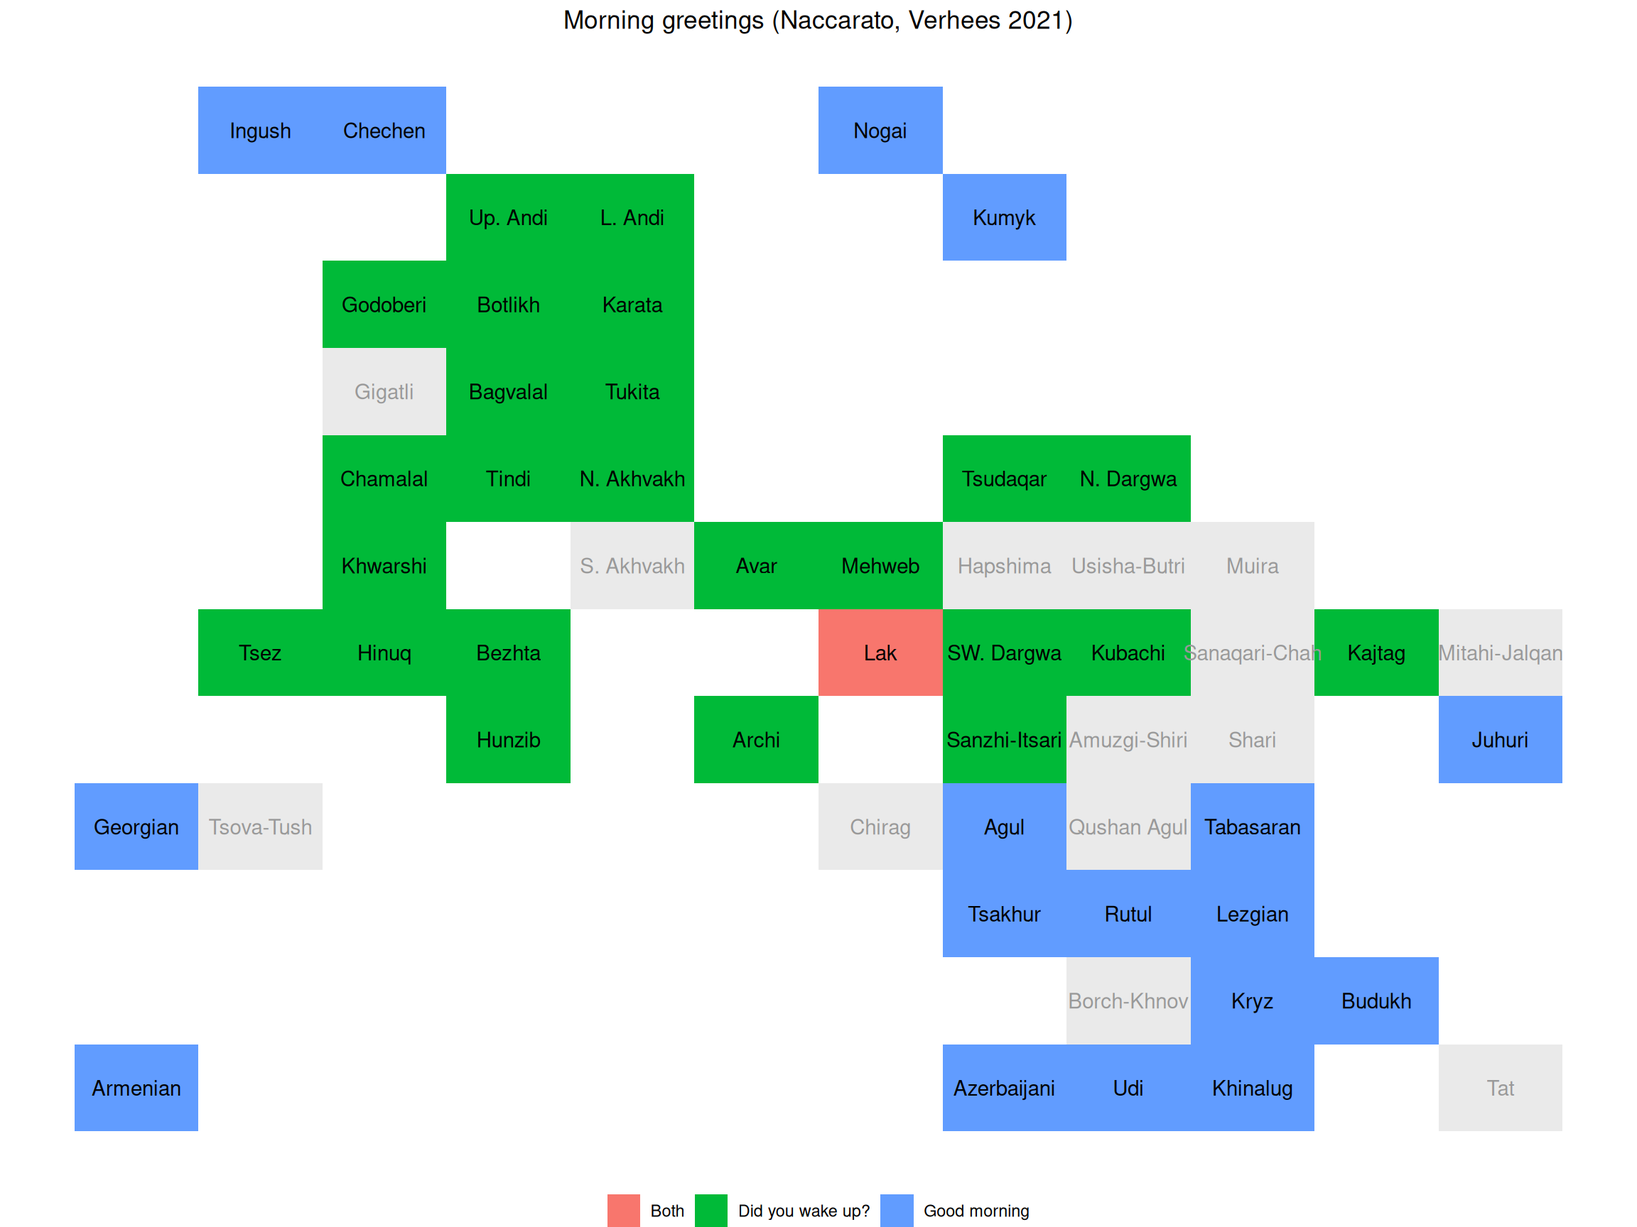
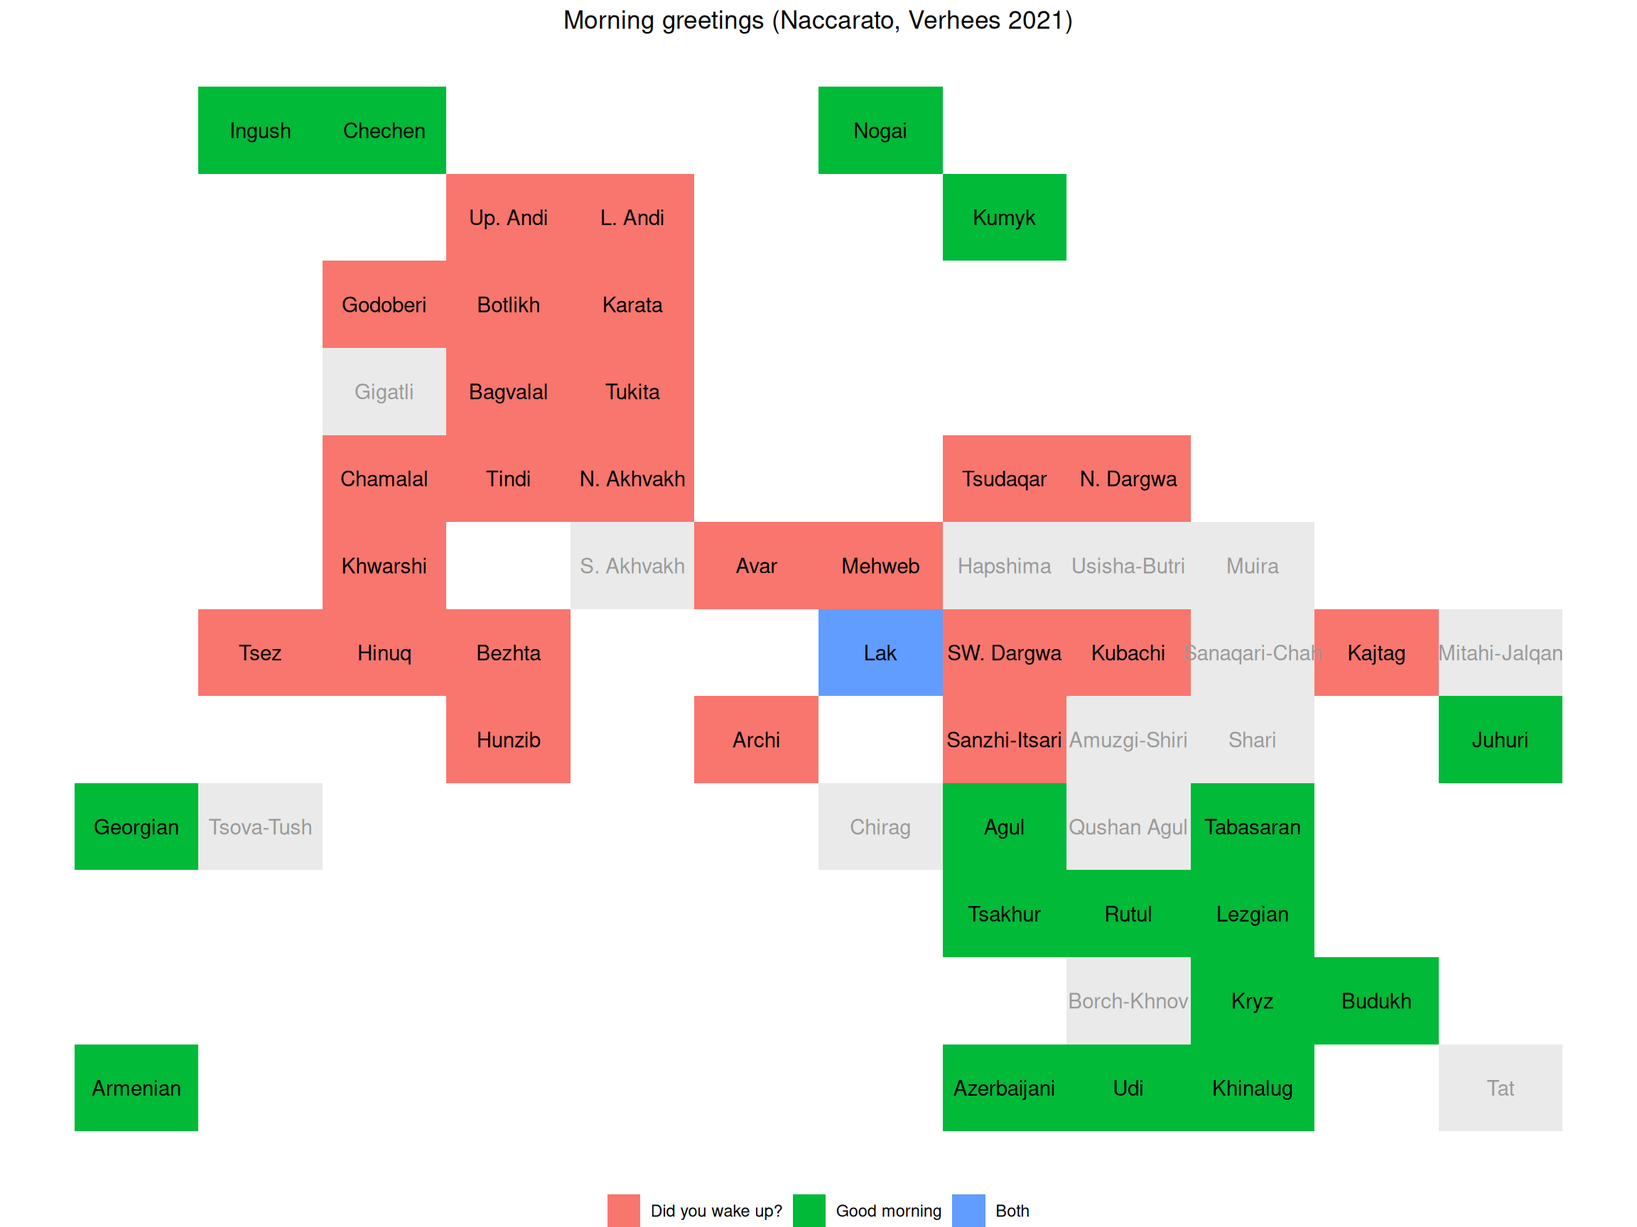
add ordering to ec_languages; add section on value ordering

diff --git a/docs/index.html b/docs/index.html
@@ -87,6 +87,7 @@ pre > code.sourceCode > span > a:first-child::before { text-decoration: underlin
   <li><a href="#installation" id="toc-installation" class="nav-link" data-scroll-target="#installation"><span class="header-section-number">2</span> Installation</a></li>
   <li><a href="#how-to-use-rcauctile" id="toc-how-to-use-rcauctile" class="nav-link" data-scroll-target="#how-to-use-rcauctile"><span class="header-section-number">3</span> How to use <code>RCaucTile</code></a></li>
   <li><a href="#changing-the-default-colors" id="toc-changing-the-default-colors" class="nav-link" data-scroll-target="#changing-the-default-colors"><span class="header-section-number">4</span> Changing the Default Colors</a></li>
+  <li><a href="#changing-values-order" id="toc-changing-values-order" class="nav-link" data-scroll-target="#changing-values-order"><span class="header-section-number">5</span> Changing values order</a></li>
   </ul>
 </nav>
 </div>
@@ -169,7 +170,7 @@ A BibTeX entry for LaTeX users is
 <div class="cell-output-display">
 <div data-pagedtable="false">
   <script data-pagedtable-source="" type="application/json">
-{"columns":[{"label":["language"],"name":[1],"type":["chr"],"align":["left"]},{"label":["branch"],"name":[2],"type":["chr"],"align":["left"]},{"label":["family"],"name":[3],"type":["chr"],"align":["left"]},{"label":["glottocode"],"name":[4],"type":["chr"],"align":["left"]},{"label":["language_color"],"name":[5],"type":["chr"],"align":["left"]},{"label":["branch_color"],"name":[6],"type":["chr"],"align":["left"]},{"label":["x"],"name":[7],"type":["int"],"align":["right"]},{"label":["y"],"name":[8],"type":["int"],"align":["right"]},{"label":["abbreviation"],"name":[9],"type":["chr"],"align":["left"]},{"label":["morning_greetings"],"name":[10],"type":["chr"],"align":["left"]},{"label":["consonant_inventory_size"],"name":[11],"type":["int"],"align":["right"]}],"data":[{"1":"Agul","2":"Lezgic","3":"East Caucasian","4":"aghu1253","5":"#00cc66","6":"#ffd000","7":"8","8":"4","9":"NA","10":"Good morning","11":"44"},{"1":"Amuzgi-Shiri","2":"Dargwa","3":"East Caucasian","4":"sout3261","5":"#f9ec49","6":"#ffb268","7":"9","8":"5","9":"NA","10":"NA","11":"NA"},{"1":"Archi","2":"Lezgic","3":"East Caucasian","4":"arch1244","5":"#88ff26","6":"#ffd000","7":"6","8":"5","9":"NA","10":"Did you wake up?","11":"69"},{"1":"Avar","2":"Avar-Andic","3":"East Caucasian","4":"avar1256","5":"#009999","6":"#009999","7":"6","8":"7","9":"NA","10":"Did you wake up?","11":"45"},{"1":"Azerbaijani","2":"Oghuz","3":"Turkic","4":"nort2697","5":"#cccccc","6":"#666666","7":"8","8":"1","9":"NA","10":"Good morning","11":"25"},{"1":"Bagvalal","2":"Avar-Andic","3":"East Caucasian","4":"bagv1239","5":"#000066","6":"#009cff","7":"4","8":"9","9":"NA","10":"Did you wake up?","11":"65"},{"1":"Bezhta","2":"Tsezic","3":"East Caucasian","4":"bezh1248","5":"#ff5050","6":"#ff0066","7":"4","8":"6","9":"NA","10":"Did you wake up?","11":"34"},{"1":"Borch-Khnov","2":"Lezgic","3":"East Caucasian","4":"rutu1240","5":"#009900","6":"#ffd000","7":"9","8":"2","9":"NA","10":"NA","11":"44"},{"1":"Botlikh","2":"Avar-Andic","3":"East Caucasian","4":"botl1242","5":"#327fcb","6":"#5fc1ff","7":"4","8":"10","9":"NA","10":"Did you wake up?","11":"69"},{"1":"Budukh","2":"Lezgic","3":"East Caucasian","4":"budu1248","5":"#3e7a04","6":"#ffd000","7":"11","8":"2","9":"NA","10":"Good morning","11":"37"},{"1":"Chamalal","2":"Avar-Andic","3":"East Caucasian","4":"cham1309","5":"#000099","6":"#0c60db","7":"3","8":"8","9":"NA","10":"Did you wake up?","11":"49"},{"1":"Chechen","2":"Nakh","3":"East Caucasian","4":"chec1245","5":"#996600","6":"#996600","7":"3","8":"12","9":"NA","10":"Good morning","11":"39"},{"1":"Chirag","2":"Dargwa","3":"East Caucasian","4":"chir1284","5":"#fecc9b","6":"#ffb268","7":"7","8":"4","9":"NA","10":"NA","11":"48"},{"1":"Eastern Armenian","2":"Armenic","3":"Indo-European","4":"nucl1235","5":"#9d76ff","6":"#cab3ff","7":"1","8":"1","9":"Armenian","10":"Good morning","11":"31"},{"1":"Georgian","2":"Georgic","3":"Kartvelian","4":"nucl1302","5":"#9effed","6":"#9effed","7":"1","8":"4","9":"NA","10":"Good morning","11":"28"},{"1":"Gigatli","2":"Avar-Andic","3":"East Caucasian","4":"cham1309","5":"#0000c3","6":"#ff8c00","7":"3","8":"9","9":"NA","10":"NA","11":"73"},{"1":"Godoberi","2":"Avar-Andic","3":"East Caucasian","4":"ghod1238","5":"#2563de","6":"#b99c00","7":"3","8":"10","9":"NA","10":"Did you wake up?","11":"61"},{"1":"Hapshima","2":"Dargwa","3":"East Caucasian","4":"darg1241","5":"#ff8c00","6":"#ffb268","7":"8","8":"7","9":"NA","10":"NA","11":"NA"},{"1":"Hinuq","2":"Tsezic","3":"East Caucasian","4":"hinu1240","5":"#ff0066","6":"#ff0066","7":"3","8":"6","9":"NA","10":"Did you wake up?","11":"42"},{"1":"Hunzib","2":"Tsezic","3":"East Caucasian","4":"hunz1247","5":"#cc0000","6":"#ff0066","7":"4","8":"5","9":"NA","10":"Did you wake up?","11":"41"},{"1":"Ingush","2":"Nakh","3":"East Caucasian","4":"ingu1240","5":"#663300","6":"#996600","7":"2","8":"12","9":"NA","10":"Good morning","11":"39"},{"1":"Juhuri","2":"Iranian","3":"Indo-European","4":"jude1256","5":"#9a7ee0","6":"#cab3ff","7":"12","8":"5","9":"NA","10":"Good morning","11":"22"},{"1":"Kajtag","2":"Dargwa","3":"East Caucasian","4":"kajt1238","5":"#b99c00","6":"#ffb268","7":"11","8":"6","9":"NA","10":"Did you wake up?","11":"63"},{"1":"Karata","2":"Avar-Andic","3":"East Caucasian","4":"kara1474","5":"#4a4ab5","6":"#eec400","7":"5","8":"10","9":"NA","10":"Did you wake up?","11":"47"},{"1":"Khinalug","2":"Khinalug","3":"East Caucasian","4":"khin1240","5":"#ead1dc","6":"#fff672","7":"10","8":"1","9":"NA","10":"Good morning","11":"55"},{"1":"Khwarshi","2":"Tsezic","3":"East Caucasian","4":"khva1239","5":"#ec2525","6":"#ff0066","7":"3","8":"7","9":"NA","10":"Did you wake up?","11":"66"},{"1":"Kryz","2":"Lezgic","3":"East Caucasian","4":"kryt1240","5":"#43cd71","6":"#ffd000","7":"10","8":"2","9":"NA","10":"Good morning","11":"47"},{"1":"Kubachi","2":"Dargwa","3":"East Caucasian","4":"kuba1248","5":"#d4c948","6":"#ffb268","7":"9","8":"6","9":"NA","10":"Did you wake up?","11":"42"},{"1":"Kumyk","2":"Kipchak","3":"Turkic","4":"kumy1244","5":"#a6a6a6","6":"#666666","7":"8","8":"11","9":"NA","10":"Good morning","11":"25"},{"1":"Lak","2":"Lak","3":"East Caucasian","4":"lakk1252","5":"#ff00fa","6":"#ffb8ff","7":"7","8":"6","9":"NA","10":"Both","11":"64"},{"1":"Lezgian","2":"Lezgic","3":"East Caucasian","4":"lezg1247","5":"#00cc00","6":"#ffd000","7":"10","8":"3","9":"NA","10":"Good morning","11":"52"},{"1":"Lower Andi","2":"Avar-Andic","3":"East Caucasian","4":"lowe1465","5":"#003366","6":"#009900","7":"5","8":"11","9":"L. Andi","10":"Did you wake up?","11":"NA"},{"1":"Mehweb","2":"Dargwa","3":"East Caucasian","4":"darg1241","5":"#ffb268","6":"#ffb268","7":"7","8":"7","9":"NA","10":"Did you wake up?","11":"49"},{"1":"Mitahi-Jalqan","2":"Iranian","3":"Indo-European","4":"nort2697","5":"#cab3ff","6":"#cab3ff","7":"12","8":"6","9":"NA","10":"NA","11":"22"},{"1":"Muira","2":"Dargwa","3":"East Caucasian","4":"darg1241","5":"#ff984e","6":"#ffb268","7":"10","8":"7","9":"NA","10":"NA","11":"NA"},{"1":"Nogai","2":"Kipchak","3":"Turkic","4":"noga1249","5":"#666666","6":"#666666","7":"7","8":"12","9":"NA","10":"Good morning","11":"26"},{"1":"Northern Akhvakh","2":"Avar-Andic","3":"East Caucasian","4":"akhv1239","5":"#5fc1ff","6":"#34ed34","7":"5","8":"8","9":"N. Akhvakh","10":"Did you wake up?","11":"89"},{"1":"Northern Dargwa","2":"Dargwa","3":"East Caucasian","4":"darg1241","5":"#ee7621","6":"#ffb268","7":"9","8":"8","9":"N. Dargwa","10":"Did you wake up?","11":"36"},{"1":"Qushan Agul","2":"Lezgic","3":"East Caucasian","4":"kosh1245","5":"#00ff80","6":"#ffd000","7":"9","8":"4","9":"NA","10":"NA","11":"56"},{"1":"Rutul","2":"Lezgic","3":"East Caucasian","4":"rutu1240","5":"#34ed34","6":"#ffd000","7":"9","8":"3","9":"NA","10":"Good morning","11":"56"},{"1":"Sanaqari-Chahrizhi","2":"Dargwa","3":"East Caucasian","4":"kajt1238","5":"#ffd000","6":"#ffb268","7":"10","8":"6","9":"Sanaqari-Chah","10":"NA","11":"NA"},{"1":"Sanzhi-Itsari","2":"Dargwa","3":"East Caucasian","4":"sout3261","5":"#eee685","6":"#ffb268","7":"8","8":"5","9":"NA","10":"Did you wake up?","11":"53"},{"1":"Shari","2":"Dargwa","3":"East Caucasian","4":"kajt1238","5":"#eec400","6":"#ffb268","7":"10","8":"5","9":"NA","10":"NA","11":"NA"},{"1":"Southern Akhvakh","2":"Avar-Andic","3":"East Caucasian","4":"sout3319","5":"#009cff","6":"#ff5050","7":"5","8":"7","9":"S. Akhvakh","10":"NA","11":"NA"},{"1":"Southwestern Dargwa","2":"Dargwa","3":"East Caucasian","4":"sout3261","5":"#fff672","6":"#ffb268","7":"8","8":"6","9":"SW. Dargwa","10":"Did you wake up?","11":"59"},{"1":"Tabasaran","2":"Lezgic","3":"East Caucasian","4":"taba1259","5":"#44c044","6":"#ffd000","7":"10","8":"4","9":"NA","10":"Good morning","11":"55"},{"1":"Tat","2":"Iranian","3":"Indo-European","4":"musl1236","5":"#bba2ff","6":"#cab3ff","7":"12","8":"1","9":"NA","10":"NA","11":"27"},{"1":"Tindi","2":"Avar-Andic","3":"East Caucasian","4":"tind1238","5":"#0c60db","6":"#990033","7":"4","8":"8","9":"NA","10":"Did you wake up?","11":"84"},{"1":"Tsakhur","2":"Lezgic","3":"East Caucasian","4":"tsak1249","5":"#409c00","6":"#ffd000","7":"8","8":"3","9":"NA","10":"Good morning","11":"65"},{"1":"Tsez","2":"Tsezic","3":"East Caucasian","4":"dido1241","5":"#990033","6":"#ff0066","7":"2","8":"6","9":"NA","10":"Did you wake up?","11":"45"},{"1":"Tsova-Tush","2":"Nakh","3":"East Caucasian","4":"bats1242","5":"#7d552c","6":"#996600","7":"2","8":"4","9":"NA","10":"NA","11":"41"},{"1":"Tsudaqar","2":"Dargwa","3":"East Caucasian","4":"darg1241","5":"#ffc65b","6":"#ffb268","7":"8","8":"8","9":"NA","10":"Did you wake up?","11":"NA"},{"1":"Tukita","2":"Avar-Andic","3":"East Caucasian","4":"kara1474","5":"#6262ff","6":"#9effed","7":"5","8":"9","9":"NA","10":"Did you wake up?","11":"48"},{"1":"Udi","2":"Lezgic","3":"East Caucasian","4":"udii1243","5":"#006400","6":"#ffd000","7":"9","8":"1","9":"NA","10":"Good morning","11":"38"},{"1":"Upper Andi","2":"Avar-Andic","3":"East Caucasian","4":"uppe1485","5":"#095097","6":"#666666","7":"4","8":"11","9":"Up. Andi","10":"Did you wake up?","11":"58"},{"1":"Usisha-Butri","2":"Dargwa","3":"East Caucasian","4":"darg1241","5":"#cf7d1c","6":"#ffb268","7":"9","8":"7","9":"NA","10":"NA","11":"NA"}],"options":{"columns":{"min":{},"max":[10]},"rows":{"min":[10],"max":[10]},"pages":{}}}
+{"columns":[{"label":["language"],"name":[1],"type":["chr"],"align":["left"]},{"label":["branch"],"name":[2],"type":["chr"],"align":["left"]},{"label":["family"],"name":[3],"type":["chr"],"align":["left"]},{"label":["glottocode"],"name":[4],"type":["chr"],"align":["left"]},{"label":["language_color"],"name":[5],"type":["chr"],"align":["left"]},{"label":["branch_color"],"name":[6],"type":["chr"],"align":["left"]},{"label":["x"],"name":[7],"type":["int"],"align":["right"]},{"label":["y"],"name":[8],"type":["int"],"align":["right"]},{"label":["abbreviation"],"name":[9],"type":["chr"],"align":["left"]},{"label":["morning_greetings"],"name":[10],"type":["fct"],"align":["left"]},{"label":["consonant_inventory_size"],"name":[11],"type":["int"],"align":["right"]}],"data":[{"1":"Agul","2":"Lezgic","3":"East Caucasian","4":"aghu1253","5":"#00cc66","6":"#ffd000","7":"8","8":"4","9":"NA","10":"Good morning","11":"44"},{"1":"Amuzgi-Shiri","2":"Dargwa","3":"East Caucasian","4":"sout3261","5":"#f9ec49","6":"#ffb268","7":"9","8":"5","9":"NA","10":"NA","11":"NA"},{"1":"Archi","2":"Lezgic","3":"East Caucasian","4":"arch1244","5":"#88ff26","6":"#ffd000","7":"6","8":"5","9":"NA","10":"Did you wake up?","11":"69"},{"1":"Avar","2":"Avar-Andic","3":"East Caucasian","4":"avar1256","5":"#009999","6":"#009999","7":"6","8":"7","9":"NA","10":"Did you wake up?","11":"45"},{"1":"Azerbaijani","2":"Oghuz","3":"Turkic","4":"nort2697","5":"#cccccc","6":"#666666","7":"8","8":"1","9":"NA","10":"Good morning","11":"25"},{"1":"Bagvalal","2":"Avar-Andic","3":"East Caucasian","4":"bagv1239","5":"#000066","6":"#009cff","7":"4","8":"9","9":"NA","10":"Did you wake up?","11":"65"},{"1":"Bezhta","2":"Tsezic","3":"East Caucasian","4":"bezh1248","5":"#ff5050","6":"#ff0066","7":"4","8":"6","9":"NA","10":"Did you wake up?","11":"34"},{"1":"Borch-Khnov","2":"Lezgic","3":"East Caucasian","4":"rutu1240","5":"#009900","6":"#ffd000","7":"9","8":"2","9":"NA","10":"NA","11":"44"},{"1":"Botlikh","2":"Avar-Andic","3":"East Caucasian","4":"botl1242","5":"#327fcb","6":"#5fc1ff","7":"4","8":"10","9":"NA","10":"Did you wake up?","11":"69"},{"1":"Budukh","2":"Lezgic","3":"East Caucasian","4":"budu1248","5":"#3e7a04","6":"#ffd000","7":"11","8":"2","9":"NA","10":"Good morning","11":"37"},{"1":"Chamalal","2":"Avar-Andic","3":"East Caucasian","4":"cham1309","5":"#000099","6":"#0c60db","7":"3","8":"8","9":"NA","10":"Did you wake up?","11":"49"},{"1":"Chechen","2":"Nakh","3":"East Caucasian","4":"chec1245","5":"#996600","6":"#996600","7":"3","8":"12","9":"NA","10":"Good morning","11":"39"},{"1":"Chirag","2":"Dargwa","3":"East Caucasian","4":"chir1284","5":"#fecc9b","6":"#ffb268","7":"7","8":"4","9":"NA","10":"NA","11":"48"},{"1":"Eastern Armenian","2":"Armenic","3":"Indo-European","4":"nucl1235","5":"#9d76ff","6":"#cab3ff","7":"1","8":"1","9":"Armenian","10":"Good morning","11":"31"},{"1":"Georgian","2":"Georgic","3":"Kartvelian","4":"nucl1302","5":"#9effed","6":"#9effed","7":"1","8":"4","9":"NA","10":"Good morning","11":"28"},{"1":"Gigatli","2":"Avar-Andic","3":"East Caucasian","4":"cham1309","5":"#0000c3","6":"#ff8c00","7":"3","8":"9","9":"NA","10":"NA","11":"73"},{"1":"Godoberi","2":"Avar-Andic","3":"East Caucasian","4":"ghod1238","5":"#2563de","6":"#b99c00","7":"3","8":"10","9":"NA","10":"Did you wake up?","11":"61"},{"1":"Hapshima","2":"Dargwa","3":"East Caucasian","4":"darg1241","5":"#ff8c00","6":"#ffb268","7":"8","8":"7","9":"NA","10":"NA","11":"NA"},{"1":"Hinuq","2":"Tsezic","3":"East Caucasian","4":"hinu1240","5":"#ff0066","6":"#ff0066","7":"3","8":"6","9":"NA","10":"Did you wake up?","11":"42"},{"1":"Hunzib","2":"Tsezic","3":"East Caucasian","4":"hunz1247","5":"#cc0000","6":"#ff0066","7":"4","8":"5","9":"NA","10":"Did you wake up?","11":"41"},{"1":"Ingush","2":"Nakh","3":"East Caucasian","4":"ingu1240","5":"#663300","6":"#996600","7":"2","8":"12","9":"NA","10":"Good morning","11":"39"},{"1":"Juhuri","2":"Iranian","3":"Indo-European","4":"jude1256","5":"#9a7ee0","6":"#cab3ff","7":"12","8":"5","9":"NA","10":"Good morning","11":"22"},{"1":"Kajtag","2":"Dargwa","3":"East Caucasian","4":"kajt1238","5":"#b99c00","6":"#ffb268","7":"11","8":"6","9":"NA","10":"Did you wake up?","11":"63"},{"1":"Karata","2":"Avar-Andic","3":"East Caucasian","4":"kara1474","5":"#4a4ab5","6":"#eec400","7":"5","8":"10","9":"NA","10":"Did you wake up?","11":"47"},{"1":"Khinalug","2":"Khinalug","3":"East Caucasian","4":"khin1240","5":"#ead1dc","6":"#fff672","7":"10","8":"1","9":"NA","10":"Good morning","11":"55"},{"1":"Khwarshi","2":"Tsezic","3":"East Caucasian","4":"khva1239","5":"#ec2525","6":"#ff0066","7":"3","8":"7","9":"NA","10":"Did you wake up?","11":"66"},{"1":"Kryz","2":"Lezgic","3":"East Caucasian","4":"kryt1240","5":"#43cd71","6":"#ffd000","7":"10","8":"2","9":"NA","10":"Good morning","11":"47"},{"1":"Kubachi","2":"Dargwa","3":"East Caucasian","4":"kuba1248","5":"#d4c948","6":"#ffb268","7":"9","8":"6","9":"NA","10":"Did you wake up?","11":"42"},{"1":"Kumyk","2":"Kipchak","3":"Turkic","4":"kumy1244","5":"#a6a6a6","6":"#666666","7":"8","8":"11","9":"NA","10":"Good morning","11":"25"},{"1":"Lak","2":"Lak","3":"East Caucasian","4":"lakk1252","5":"#ff00fa","6":"#ffb8ff","7":"7","8":"6","9":"NA","10":"Both","11":"64"},{"1":"Lezgian","2":"Lezgic","3":"East Caucasian","4":"lezg1247","5":"#00cc00","6":"#ffd000","7":"10","8":"3","9":"NA","10":"Good morning","11":"52"},{"1":"Lower Andi","2":"Avar-Andic","3":"East Caucasian","4":"lowe1465","5":"#003366","6":"#009900","7":"5","8":"11","9":"L. Andi","10":"Did you wake up?","11":"NA"},{"1":"Mehweb","2":"Dargwa","3":"East Caucasian","4":"darg1241","5":"#ffb268","6":"#ffb268","7":"7","8":"7","9":"NA","10":"Did you wake up?","11":"49"},{"1":"Mitahi-Jalqan","2":"Iranian","3":"Indo-European","4":"nort2697","5":"#cab3ff","6":"#cab3ff","7":"12","8":"6","9":"NA","10":"NA","11":"22"},{"1":"Muira","2":"Dargwa","3":"East Caucasian","4":"darg1241","5":"#ff984e","6":"#ffb268","7":"10","8":"7","9":"NA","10":"NA","11":"NA"},{"1":"Nogai","2":"Kipchak","3":"Turkic","4":"noga1249","5":"#666666","6":"#666666","7":"7","8":"12","9":"NA","10":"Good morning","11":"26"},{"1":"Northern Akhvakh","2":"Avar-Andic","3":"East Caucasian","4":"akhv1239","5":"#5fc1ff","6":"#34ed34","7":"5","8":"8","9":"N. Akhvakh","10":"Did you wake up?","11":"89"},{"1":"Northern Dargwa","2":"Dargwa","3":"East Caucasian","4":"darg1241","5":"#ee7621","6":"#ffb268","7":"9","8":"8","9":"N. Dargwa","10":"Did you wake up?","11":"36"},{"1":"Qushan Agul","2":"Lezgic","3":"East Caucasian","4":"kosh1245","5":"#00ff80","6":"#ffd000","7":"9","8":"4","9":"NA","10":"NA","11":"56"},{"1":"Rutul","2":"Lezgic","3":"East Caucasian","4":"rutu1240","5":"#34ed34","6":"#ffd000","7":"9","8":"3","9":"NA","10":"Good morning","11":"56"},{"1":"Sanaqari-Chahrizhi","2":"Dargwa","3":"East Caucasian","4":"kajt1238","5":"#ffd000","6":"#ffb268","7":"10","8":"6","9":"Sanaqari-Chah","10":"NA","11":"NA"},{"1":"Sanzhi-Itsari","2":"Dargwa","3":"East Caucasian","4":"sout3261","5":"#eee685","6":"#ffb268","7":"8","8":"5","9":"NA","10":"Did you wake up?","11":"53"},{"1":"Shari","2":"Dargwa","3":"East Caucasian","4":"kajt1238","5":"#eec400","6":"#ffb268","7":"10","8":"5","9":"NA","10":"NA","11":"NA"},{"1":"Southern Akhvakh","2":"Avar-Andic","3":"East Caucasian","4":"sout3319","5":"#009cff","6":"#ff5050","7":"5","8":"7","9":"S. Akhvakh","10":"NA","11":"NA"},{"1":"Southwestern Dargwa","2":"Dargwa","3":"East Caucasian","4":"sout3261","5":"#fff672","6":"#ffb268","7":"8","8":"6","9":"SW. Dargwa","10":"Did you wake up?","11":"59"},{"1":"Tabasaran","2":"Lezgic","3":"East Caucasian","4":"taba1259","5":"#44c044","6":"#ffd000","7":"10","8":"4","9":"NA","10":"Good morning","11":"55"},{"1":"Tat","2":"Iranian","3":"Indo-European","4":"musl1236","5":"#bba2ff","6":"#cab3ff","7":"12","8":"1","9":"NA","10":"NA","11":"27"},{"1":"Tindi","2":"Avar-Andic","3":"East Caucasian","4":"tind1238","5":"#0c60db","6":"#990033","7":"4","8":"8","9":"NA","10":"Did you wake up?","11":"84"},{"1":"Tsakhur","2":"Lezgic","3":"East Caucasian","4":"tsak1249","5":"#409c00","6":"#ffd000","7":"8","8":"3","9":"NA","10":"Good morning","11":"65"},{"1":"Tsez","2":"Tsezic","3":"East Caucasian","4":"dido1241","5":"#990033","6":"#ff0066","7":"2","8":"6","9":"NA","10":"Did you wake up?","11":"45"},{"1":"Tsova-Tush","2":"Nakh","3":"East Caucasian","4":"bats1242","5":"#7d552c","6":"#996600","7":"2","8":"4","9":"NA","10":"NA","11":"41"},{"1":"Tsudaqar","2":"Dargwa","3":"East Caucasian","4":"darg1241","5":"#ffc65b","6":"#ffb268","7":"8","8":"8","9":"NA","10":"Did you wake up?","11":"NA"},{"1":"Tukita","2":"Avar-Andic","3":"East Caucasian","4":"kara1474","5":"#6262ff","6":"#9effed","7":"5","8":"9","9":"NA","10":"Did you wake up?","11":"48"},{"1":"Udi","2":"Lezgic","3":"East Caucasian","4":"udii1243","5":"#006400","6":"#ffd000","7":"9","8":"1","9":"NA","10":"Good morning","11":"38"},{"1":"Upper Andi","2":"Avar-Andic","3":"East Caucasian","4":"uppe1485","5":"#095097","6":"#666666","7":"4","8":"11","9":"Up. Andi","10":"Did you wake up?","11":"58"},{"1":"Usisha-Butri","2":"Dargwa","3":"East Caucasian","4":"darg1241","5":"#cf7d1c","6":"#ffb268","7":"9","8":"7","9":"NA","10":"NA","11":"NA"}],"options":{"columns":{"min":{},"max":[10]},"rows":{"min":[10],"max":[10]},"pages":{}}}
   </script>
 </div>
 </div>
@@ -371,6 +372,25 @@ Adding another scale for fill, which will replace the existing scale.</code></pr
 <div>
 <figure class="figure">
 <p><img src="index_files/figure-html/unnamed-chunk-17-1.png" class="img-fluid figure-img" width="1152"></p>
+</figure>
+</div>
+</div>
+</div>
+</section>
+<section id="changing-values-order" class="level2" data-number="5">
+<h2 data-number="5" class="anchored" data-anchor-id="changing-values-order"><span class="header-section-number">5</span> Changing values order</h2>
+<p>The default order of values in R is alphabetical. To impose a different order, you can use the <code>factor()</code> function. This function doesn’t change the values themselves, but it instructs R to treat an input vector as ordered. This can be important for features with a natural order. For example, the following demonstrates how to override the default alphabetical order using <code>factor()</code>.</p>
+<div class="cell">
+<div class="sourceCode cell-code" id="cb24"><pre class="sourceCode r code-with-copy"><code class="sourceCode r"><span id="cb24-1"><a href="#cb24-1" aria-hidden="true" tabindex="-1"></a>df <span class="ot">&lt;-</span> <span class="fu">data.frame</span>(<span class="at">language =</span> <span class="fu">c</span>(<span class="st">"Avar"</span>, <span class="st">"Chechen"</span>, <span class="st">"Mehweb"</span>),</span>
+<span id="cb24-2"><a href="#cb24-2" aria-hidden="true" tabindex="-1"></a>                 <span class="at">feature =</span> <span class="fu">c</span>(<span class="st">"value a"</span>, <span class="st">"value b"</span>, <span class="st">"value b"</span>))</span>
+<span id="cb24-3"><a href="#cb24-3" aria-hidden="true" tabindex="-1"></a></span>
+<span id="cb24-4"><a href="#cb24-4" aria-hidden="true" tabindex="-1"></a>df<span class="sc">$</span>feature <span class="ot">&lt;-</span> <span class="fu">factor</span>(df<span class="sc">$</span>feature, <span class="at">levels =</span> <span class="fu">c</span>(<span class="st">"value b"</span>, <span class="st">"value a"</span>))</span>
+<span id="cb24-5"><a href="#cb24-5" aria-hidden="true" tabindex="-1"></a></span>
+<span id="cb24-6"><a href="#cb24-6" aria-hidden="true" tabindex="-1"></a><span class="fu">ec_tile_map</span>(df)</span></code><button title="Copy to Clipboard" class="code-copy-button"><i class="bi"></i></button></pre></div>
+<div class="cell-output-display">
+<div>
+<figure class="figure">
+<p><img src="index_files/figure-html/unnamed-chunk-18-1.png" class="img-fluid figure-img" width="1152"></p>
 </figure>
 </div>
 </div>
